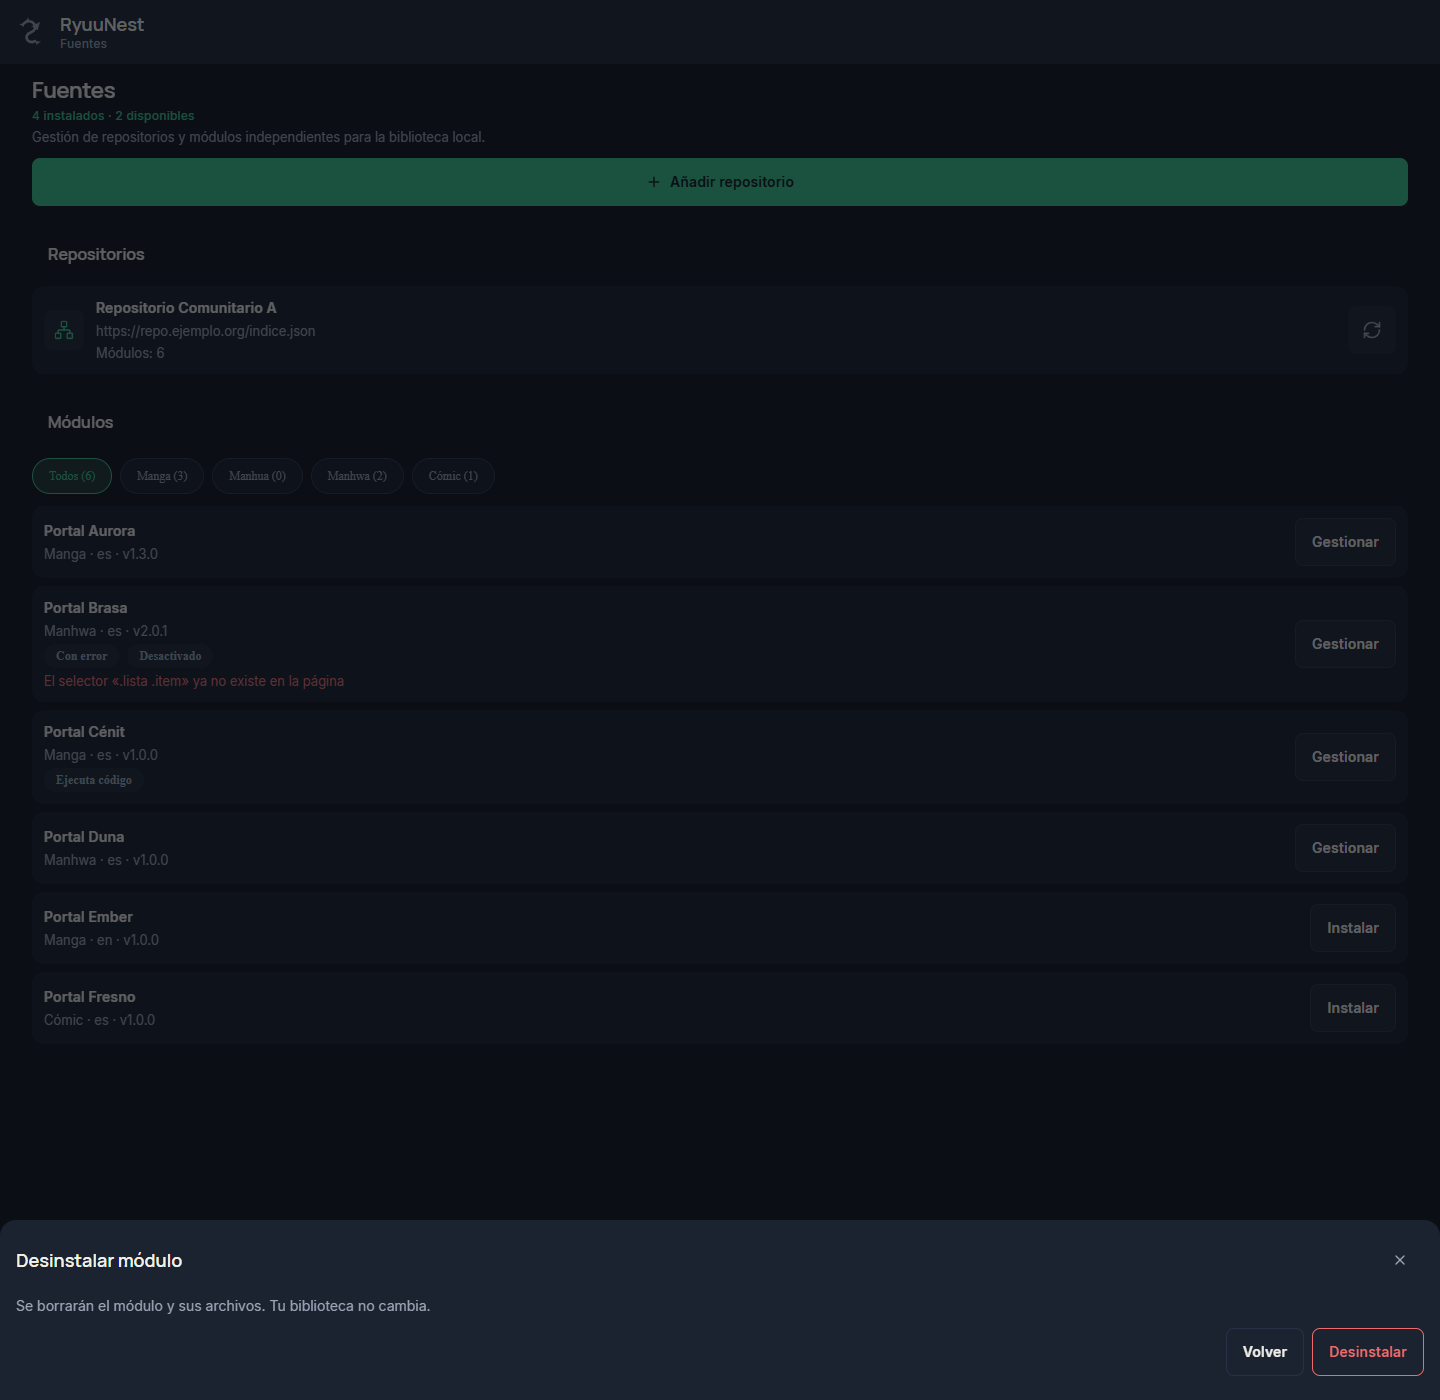
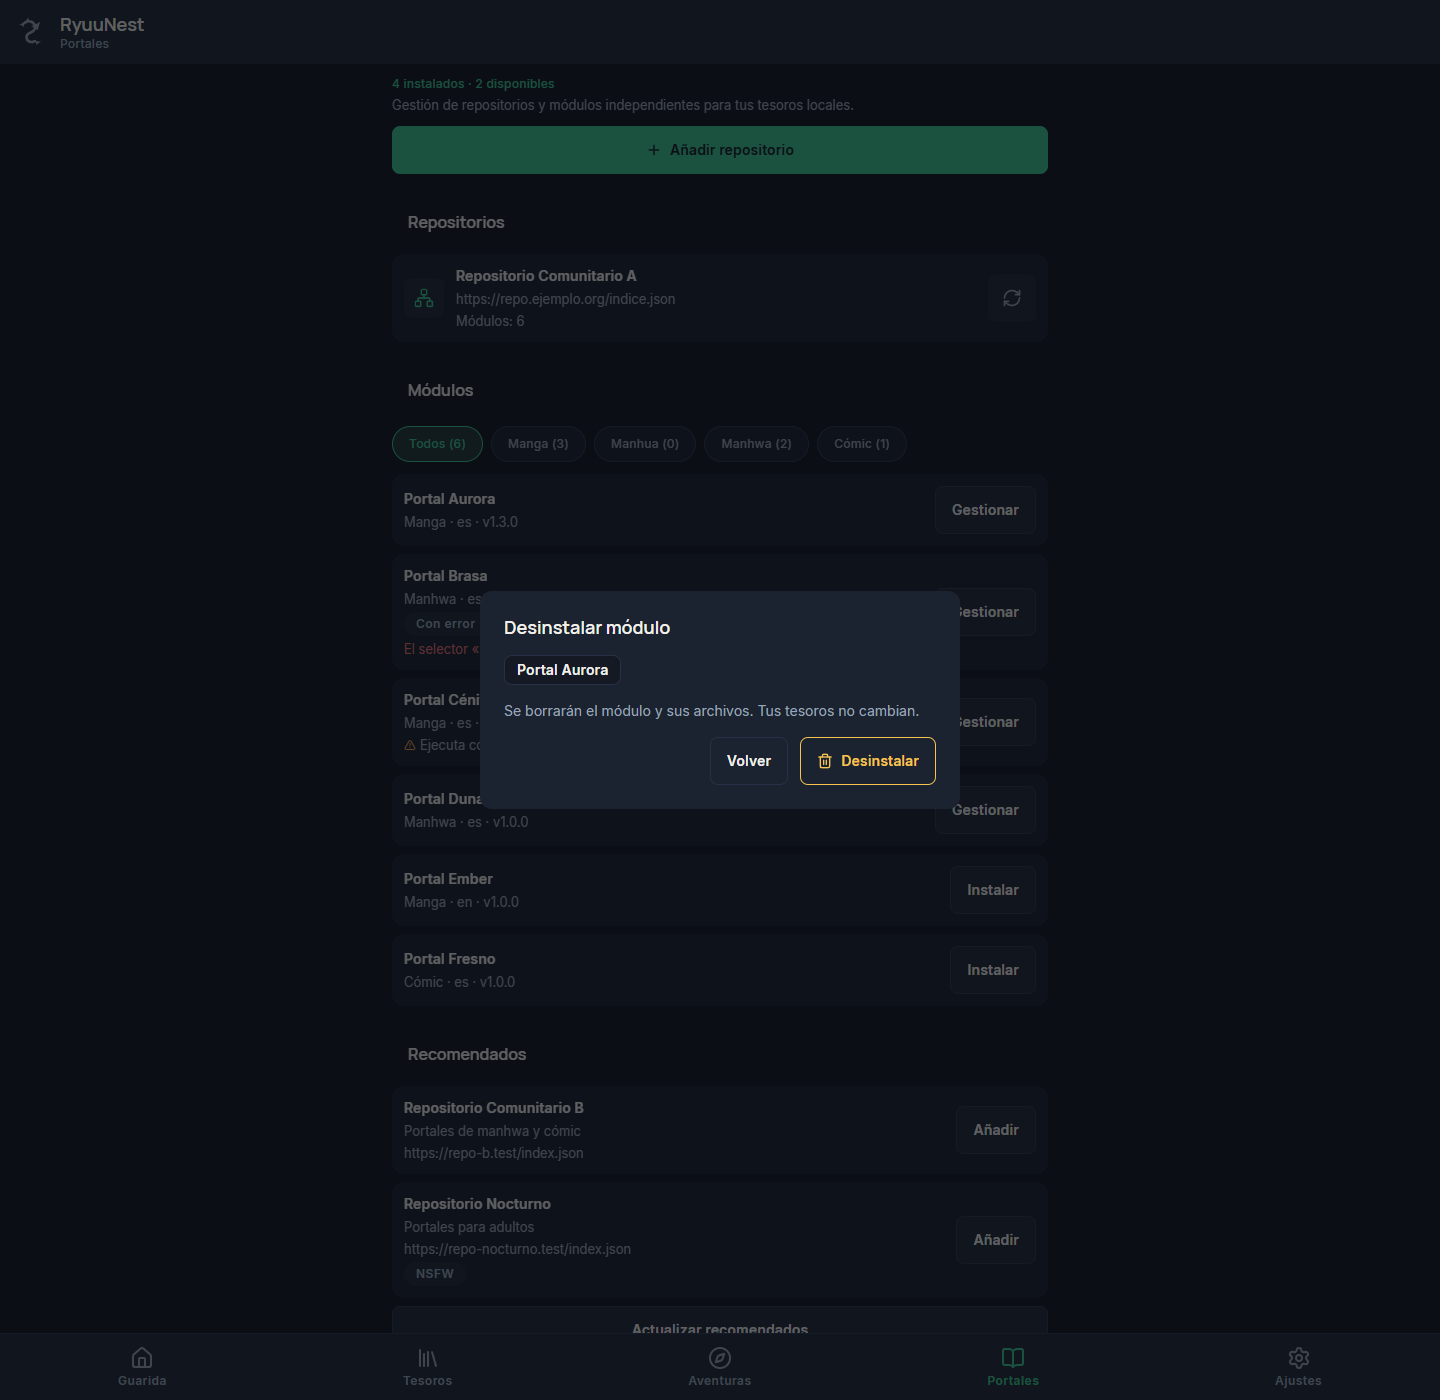
docs: cierre de F61 y F42 en todo.md y MEMORY.md, e2e de Fuentes y capturas (F61, F42)
Claude-Session: https://claude.ai/code/session_01KcBhPMikDVBF5yqFU4qKe3

diff --git a/apps/mobile/src/screens/settings/SettingsScreen.tsx b/apps/mobile/src/screens/settings/SettingsScreen.tsx
@@ -136,7 +136,7 @@ export default function SettingsScreen({
         <View style={styles.section}>
           <SettingsCard>
             <SettingsRow
-              label={t("settings.language.label")}
+              label={t("settings.language.row")}
               hint={t("settings.language.hint")}
               right={
                 <Text style={styles.value} testID="settings-language-value">

diff --git a/MEMORY.md b/MEMORY.md
@@ -57,6 +57,7 @@ Memoria del proyecto para cualquier agente. Solo hitos, decisiones vigentes y pe
 - **T34+T35 (2026-11-01, rama `feature/T34-T35-resilience-ci-gates`, un PR por decisión del humano):** T34 en `packages/core/tests/resilience/resilience.test.ts` (6 tests: TIMEOUT no bloquea el núcleo, errores contenidos con `lastError()`, reintento sin reiniciar, rate-limit por dominio bajo carga y aislamiento entre dominios). El test en rojo cazó que `respectDelay` no era atómico bajo carga (dos inicios con 1 ms); arreglo en `ModuleHost` con cadena de promesas por dominio. Mutaciones verificadas (quitar `release()`/`record()` → rojo). T35: gate funcional del contrato en `core/tests/contract/gate.test.ts` (matriz declarativo/script-HTML/script-JSON × 5 métodos vía `createModuleApi`) + `.github/workflows/ci.yml` con puerta única `pnpm -r test && pnpm -r typecheck && pnpm lint`, paso «Contrato» (`vitest run contract`) y paso «Bundle Android» (`expo export -p android`). Ver P-122/P-123.
 - **F28 (2026-11-02):** verificación por pantalla del cliente web en `apps/web/tests/e2e/f28Screens.cjs` + `docs/capturasF28/` + `design/stitch/F28-verificacion.md` + filas nuevas en `DIFFS.md`. Los 4 arreglos CSS (T7/overflow) están en `apps/web/src` (`sources.css`, `diagnostics.css`, `toast.css`, `reader.css`). Detalle en el hito de §1.
 - **F33 (2026-11-08, rama `docs/F33-analisis-ux-ui`):** revisión UX/UI observable entregada solo como análisis en `tasks/Analisis.md` (64 hallazgos: 11 bloqueantes, 27 importantes, 26 menores) con capturas en `docs/capturasF33/`; web (Playwright, `f28Screens.cjs`) y nativo en el S25 Ultra con primer uso real. Hallazgo mayor: Inicio nativo usa `SAMPLE_HOME_DATA` (fixtures) también en una instalación limpia. Tareas propuestas F40 a F45; TV/D-pad siguen en F22/F23/F37.
+- **Portales (2026-11-20, rama `feature/F61-F42-portales-ajustes`):** F61 y F42 hechas (ver P-180); T42/F64 en `RyuuNest-Models` PR #11 (m440 0.2.1, `AGENTS.md`); YupManga 0.1.1 ya resolvía el reto, falta confirmarlo en el teléfono (F63). Pendientes: F63 y F45.
 
 ## 3. Decisiones vigentes
 
@@ -206,6 +207,7 @@ Memoria del proyecto para cualquier agente. Solo hitos, decisiones vigentes y pe
 - **P-173 `nsfw` pasa a token semántico (humano 2026-11-19; reemplaza el punto (3) de P-172):** `ThemeColors` tiene ahora **14** colores: `nsfw = #FF6B1A` (borde de las series NSFW, siempre con la insignia «18+»). Se actualizan SPEC §11.9, el front-matter de `DESIGN.md` y sus pruebas (`colors`, `design-md`, `theme`, `aa-pairs`); se retira la constante `nsfwColor`. La excepción a V1 de `DESIGN_RULES.md` sigue aprobada.
 - **P-174 Ficha F95/F96 (humano 2026-11-19; reemplaza P-170 en lo del corazón):** (1) el **corazón** de la ficha guarda en **Favoritos** (carpeta del sistema); si ya estaba, la deja en **Gemas** (sin carpeta), no la elimina ni toca el progreso (`Favorites.toggleHeart`/`isHearted`, núcleo). (2) El botón «Carpeta» pasa a llamarse **«Guardar»** y abre una hoja para elegir **una** carpeta (mueve, D-12); sin carpetas propias, el guardado por defecto es **Gemas** (F96). (3) Verificación nativa solo con agent-device en el S25. (4) **F97:** el borde naranja en Aventuras sale de `nsfw` o de las etiquetas hentai/seinen/josei en `SeriesSummary.badges`; hoy solo «Seinen» existe en los datos de ejemplo (hentai y josei no aparecen en ningún módulo), la regla es por datos.
 - **P-179 F44 «Recomendados» (humano 2026-11-20; resuelve la pregunta 1 de `tasks/Analisis.md` §8):** `recommended.json` en el repo oficial `RyuuNest-Models`, misma ruta raw que su `index.json` (`RECOMMENDED_URL` en `apps/mobile/src/data/officialRepo.ts`). Formato: **una lista JSON** de `{ name, indexUrl, description, nsfw }` (`indexUrl` HTTPS); una entrada rota se descarta con aviso y solo un archivo que no sea lista es inválido (`parseRecommended`/`fetchRecommended` en el núcleo, `repo/recommended.ts`). Se descarga **solo al abrir Portales o al pulsar «Actualizar recomendados»**, nunca en segundo plano; sin red → «Sin conexión» sin bloquear. «Añadir» abre la hoja «Añadir repositorio» con la URL rellena (el usuario confirma; nada se instala solo). NSFW con la insignia «NSFW». SPEC: **RNF-5** con la excepción explícita y **RF-2b** nuevo. La web de Expo usa recomendados de ejemplo (sin red, P-169); `apps/web` usa el servicio real. **Añadidos (humano 2026-11-20):** un recomendado ya añadido muestra «Añadido» desactivado (`isRecommendedAdded`, por URL exacta del índice); `nsfw: true` solo para repos **dedicados** a contenido adulto (el oficial va `false` aunque tenga módulos NSFW).
+- **P-180 F42 permisos (humano 2026-11-20):** en Portales y primer uso, «Ejecuta código» y «Para adultos» van en una línea de permisos con icono de aviso (`modulePermissions`, `ModuleRow.permissions`), fuera de las insignias de estado (`moduleStatusBadges`). Las píldoras NSFW de Recomendados, Respaldo y `apps/web` **no** cambian y F98 sigue abierta. V3: el botón «Mantén pulsado» conserva su estilo (relleno `progress` naranja); la huella va plegada como «Huella de verificación». Módulos no compatibles (F61): sección «No compatibles» con el motivo del índice y sin botón.
 
 ## 4. Pendientes y sugerencias
 

diff --git a/tasks/todo.md b/tasks/todo.md
@@ -407,7 +407,8 @@ Dep: T40 · S · repo `RyuuNest-Models`
 
 - [ ] El capítulo falla con `UNSUPPORTED` («el reto del lector cambió de formato»; selector `\[([0-9,]+)\];var [\w$]+=String\.fromCharCode\(([0-9,]+)\);`). Guardar una fixture HTML del reto actual (nunca el sitio real en pruebas), ajustar el módulo y subir versión + índice con SHA-256.
 - [ ] Abrir un capítulo de YupManga en el teléfono y ver al menos una imagen.
-- [ ] Revisar `m440.in`: dio `TIMEOUT` durante la sesión (sitio intermitente); decidir si el módulo necesita reintentos o un mensaje mejor.
+- [x] `m440.in` `TIMEOUT`: mensaje claro de «sitio intermitente» sin reintentos (m440 0.2.1, RyuuNest-Models PR #11; el `index.json` va en PR aparte)
+- [ ] YupManga 0.1.1 ya resuelve el nuevo reto (PRs #5/#6 de Models): falta abrir un capítulo en el teléfono; solo si sigue fallando con `UNSUPPORTED` se captura la fixture
 - Verif: 🧍 S25 Ultra; el arnés del módulo en verde.
 
 
@@ -417,8 +418,8 @@ Dep: T38 (hecha) · XS · `apps/mobile/src/screens/sources/*`
 
 > Origen: T38 dejó `SourcesData.incompatible` sin etiqueta visual.
 
-- [ ] Mostrar «No compatible con esta versión» (con la versión mínima) en la fila del módulo; no se puede instalar
-- Verif: Vitest + Playwright
+- [x] Mostrar «No compatible con esta versión» (con la versión mínima) en la fila del módulo; no se puede instalar (sección «No compatibles» con el motivo del índice; sin botón)
+- Verif: ✅ Vitest + ✅ Playwright 426/1440 px (la galería tiene el estado; el e2e de Fuentes usa el servicio sin incompatibles)
 
 ### F63 F16 en el dispositivo: repo real, módulo declarativo y `script` `[Ops · Baja · N2]` 🧍
 
@@ -427,7 +428,7 @@ Dep: T38 (hecha) · XS · `apps/mobile/src/screens/sources/*`
 
 ### F64 Revisión de `RyuuNest-Models` `[Ops · Baja · N1]` 🧍
 
-- [ ] 🧍 Corregir la frase «un campo de más o de menos lo rechaza» de su `AGENTS.md` (T38) y copiar `modules/{AGENTS,README,NOTES}.md` al repo
+- [x] Frase corregida en `AGENTS.md` de RyuuNest-Models (PR #11); `AGENTS/README/NOTES.md` ya estaban en la raíz del repo, no hubo nada que copiar
 - Verif: revisión humana
 
 ### F45 Avisos NSFW y primer uso sin jerga (propuesta de F33, sin aprobar) `[FE · Intermedia · N3]`
@@ -441,8 +442,9 @@ Dep: F16 · S · `apps/mobile/src/screens/{onboarding,sources}/*`
 
 Dep: F33 · S · `apps/mobile/src/screens/{sources,settings}/*`
 
-- [ ] 🧍 Aprobar F42. Después: permisos con icono de aviso y la lista de «disponibles» visible
-- Verif: Vitest + Playwright 426/1440 px
+- [x] Aprobada por el humano (2026-11-20). Hecho: título duplicado quitado (N7), permisos «Ejecuta código»/«Para adultos» con icono de aviso solo en filas de módulo de Portales y primer uso (N9; las píldoras NSFW de Recomendados/Respaldo/web no se tocan, F98 sigue abierta), «Enlace del repositorio» sin `index.json` (R5), huella plegable y «Huella de verificación» (V3), Ajustes: idioma en una fila «Idioma» (N21), chips de lectura en columna sin separador (N22), chevrón de filas pulsables siempre a la derecha (R8), «archivo de respaldo» sin JSON (R9)
+- [ ] Pendiente de F42 (no hecho, decidir): V3 botón primario verde (choca con el relleno naranja de `progress`; se deja como está) y aviso «X instalado»; V7 «Quitar» visible en la tarjeta del repo; V8 aviso «desinstalado»; N21 sin chevrón porque no hay pantalla de idiomas; la web (`apps/web`) conserva su título y sus píldoras
+- Verif: ✅ Vitest + ✅ Playwright 426/1440 px (`settings`, `sources`, `onboarding`, `shell`, galería)
 
 ### F62 Puertos futuros de `legacyModulos/` (deuda) `[BE/Ops · Alta · N4]`
 
